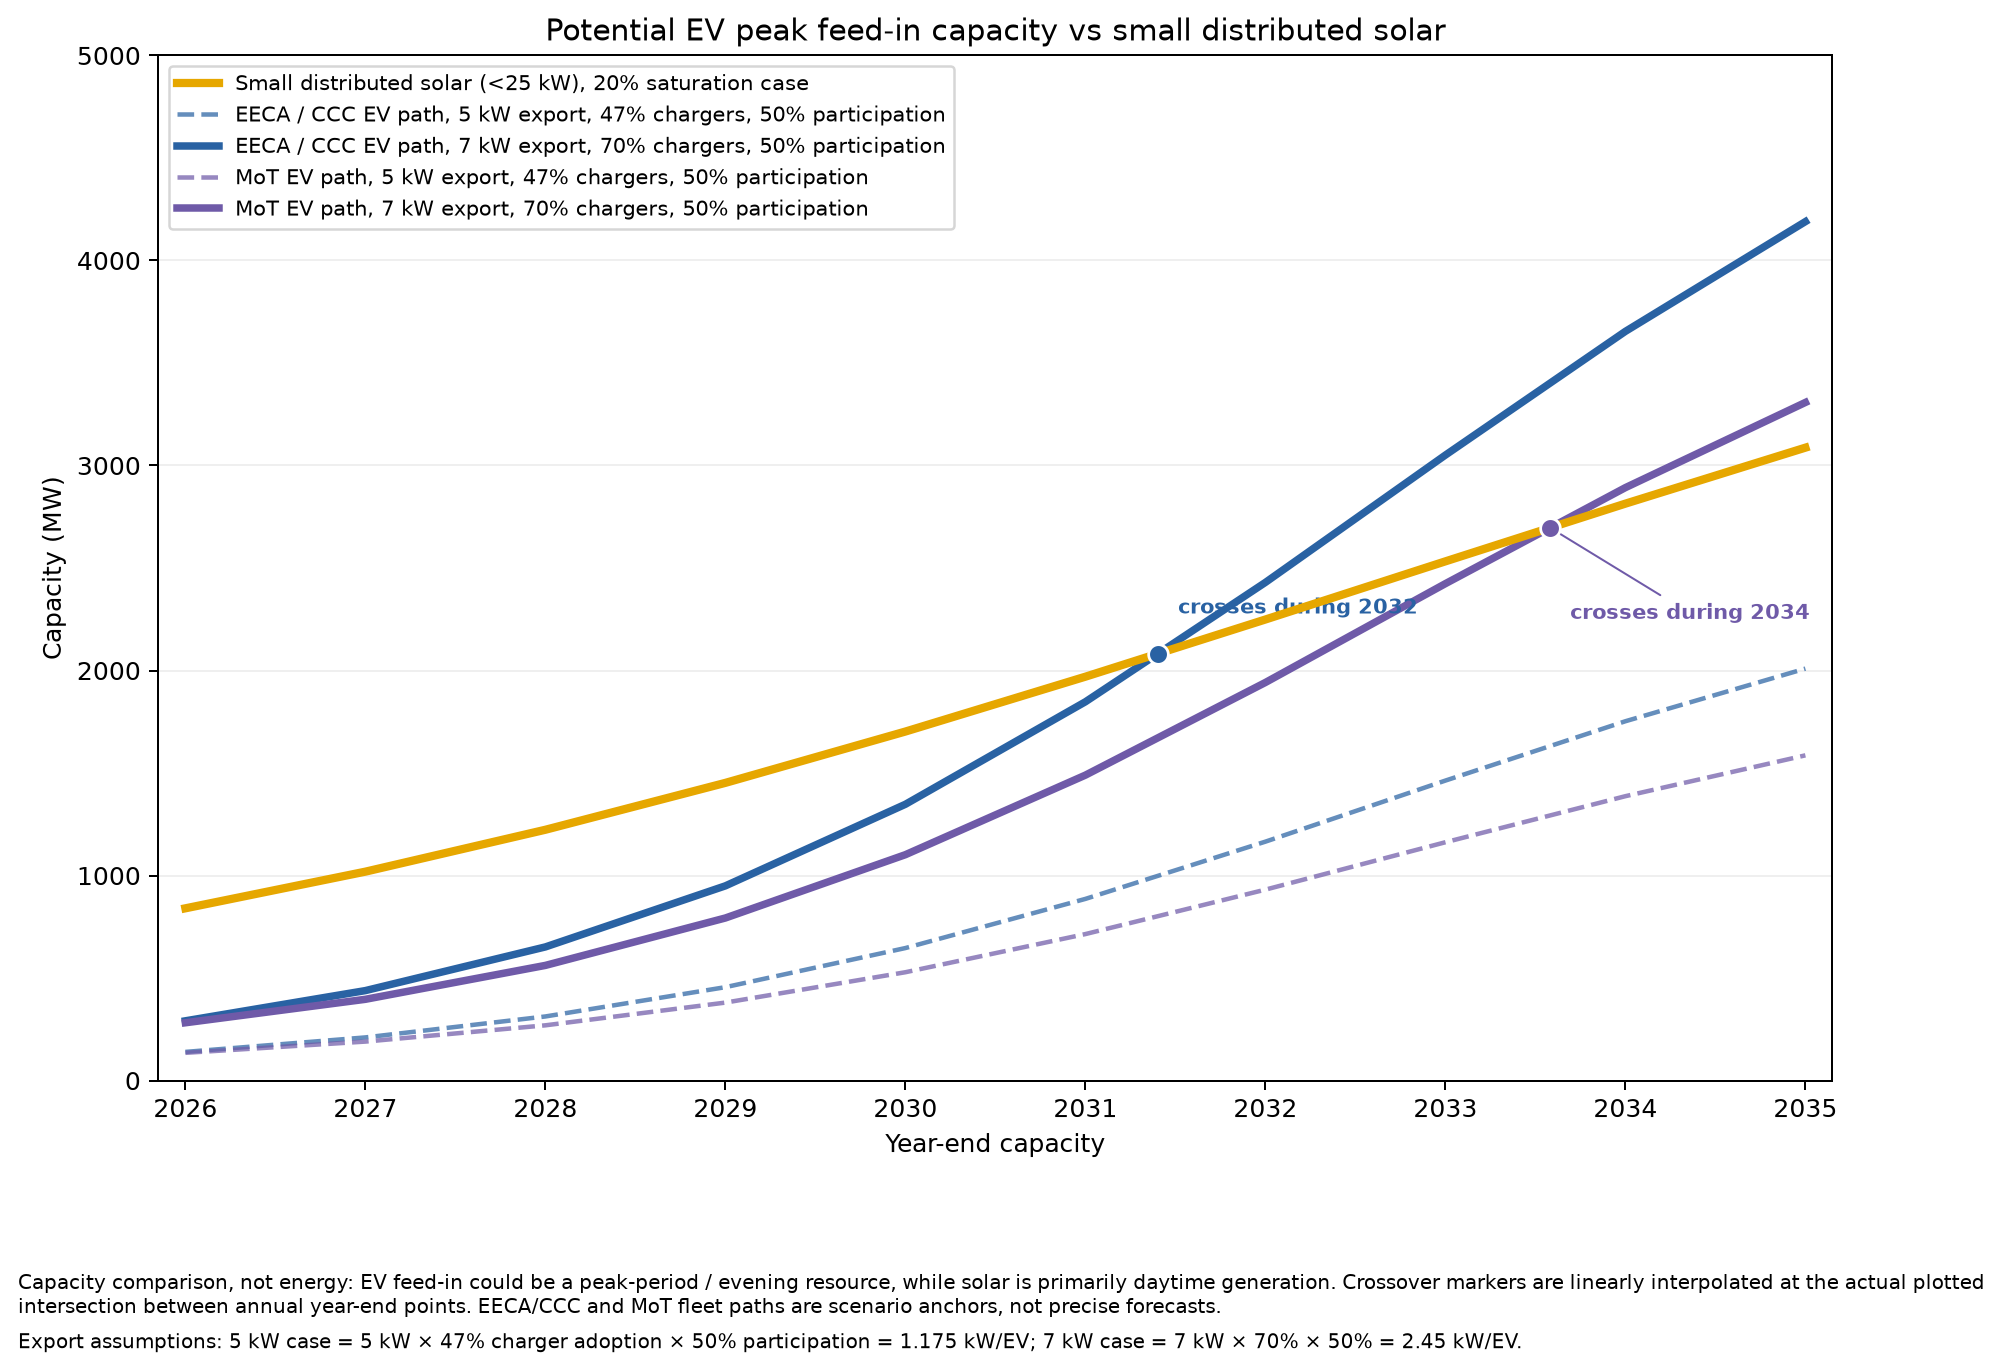
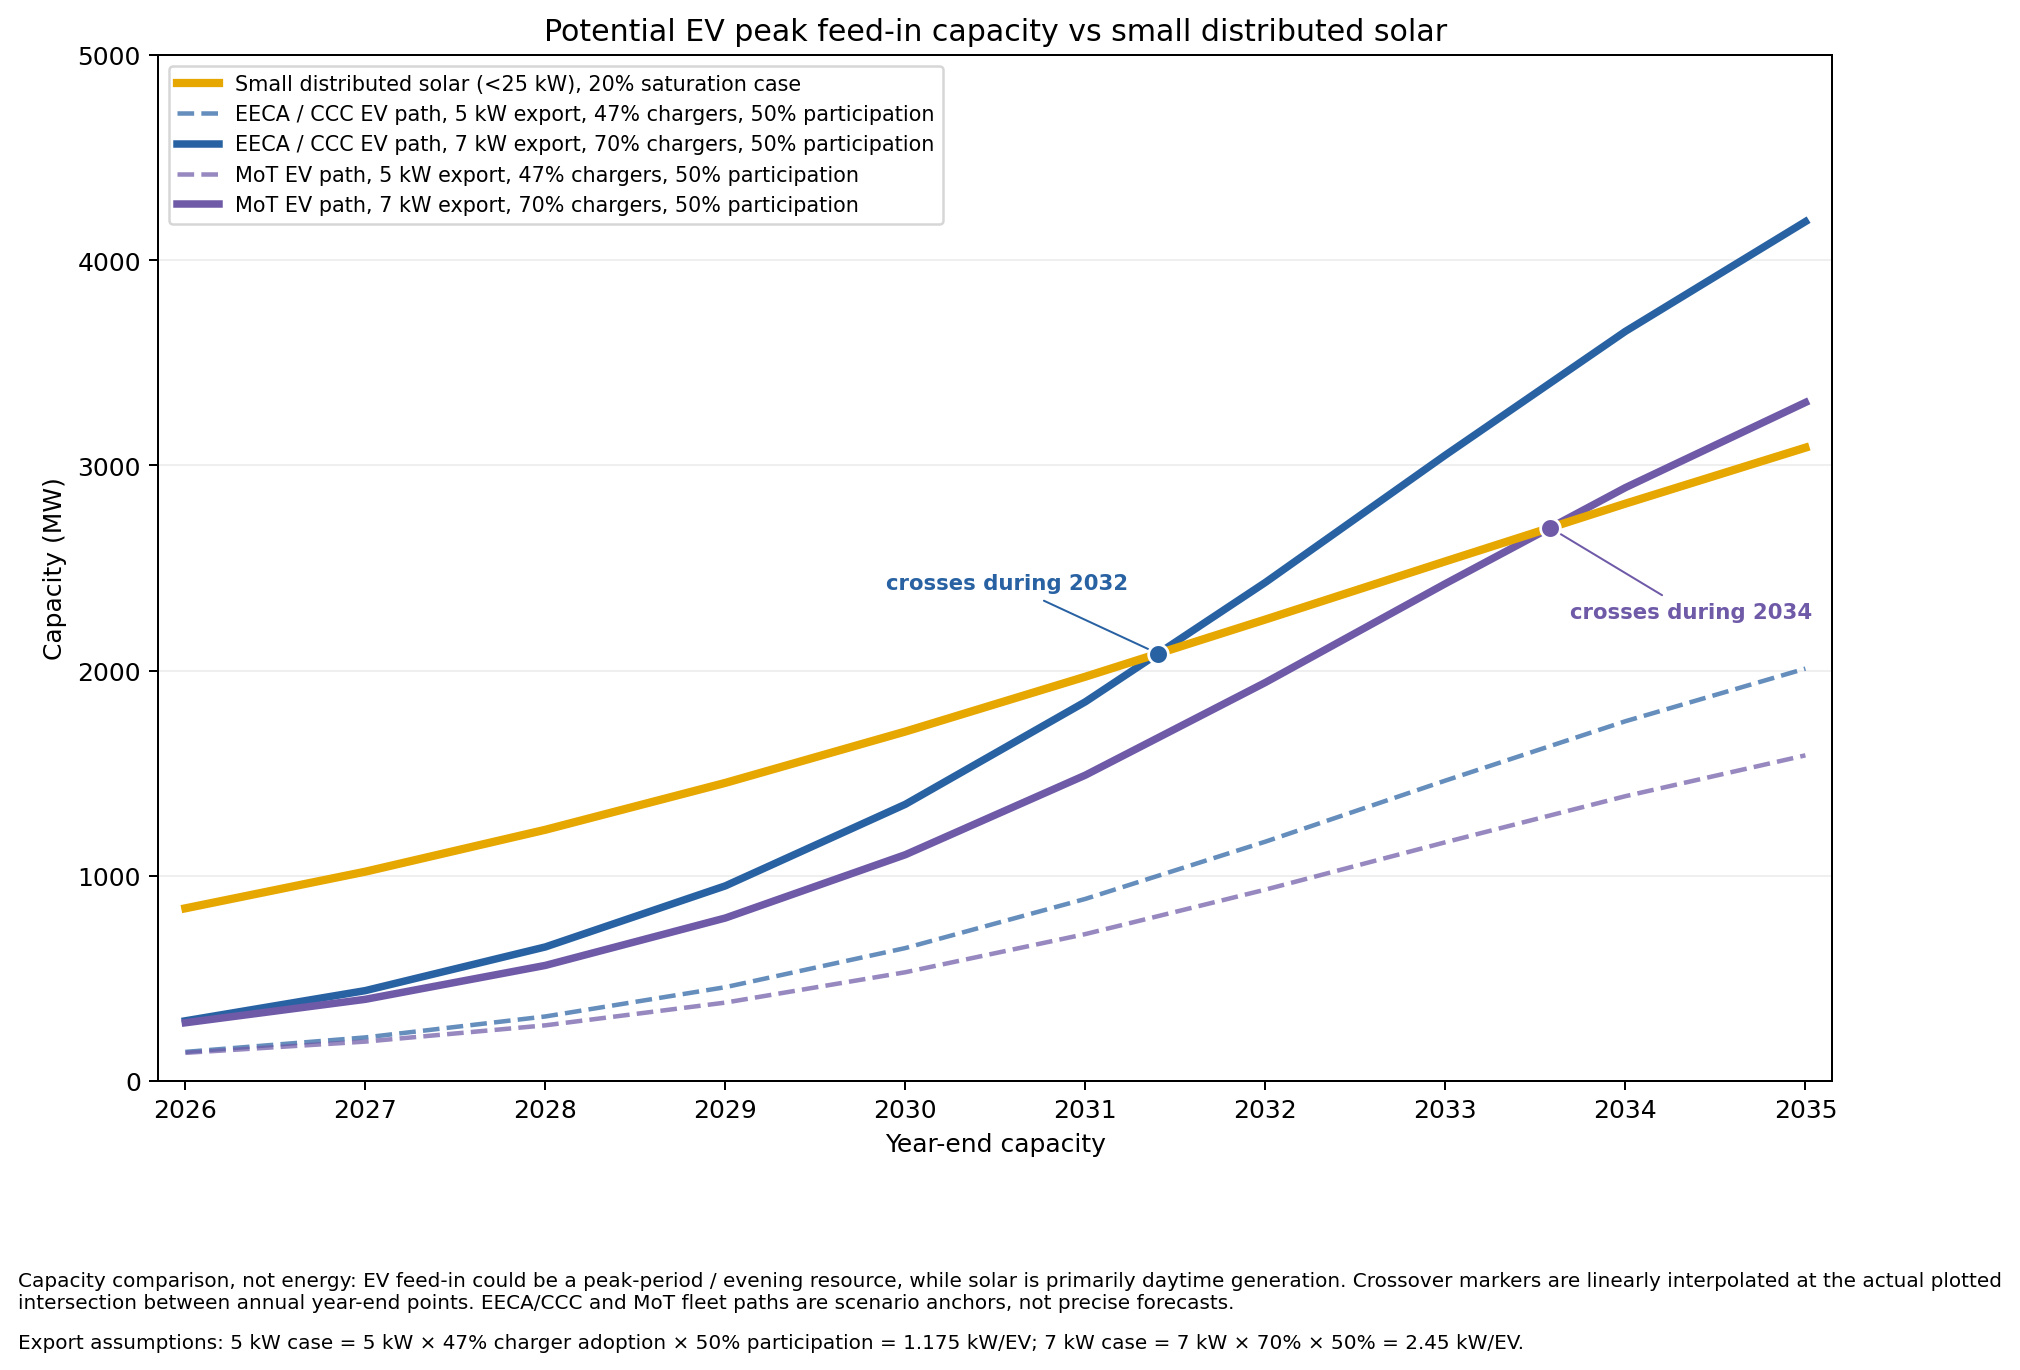
Keep EV solar crossover labels clear of plotted lines

diff --git a/build_ev_feed_in_vs_small_solar.py b/build_ev_feed_in_vs_small_solar.py
@@ -305,8 +305,8 @@ def main() -> None:
     )
 
     annotation_offsets = {
-        "eeca_current": (8, 14),
-        "eeca_future": (8, 14),
+        "eeca_current": (-12, 24),
+        "eeca_future": (-12, 24),
         "mot_current": (8, -30),
         "mot_future": (8, -30),
     }
@@ -334,7 +334,7 @@ def main() -> None:
             fontsize=8.5,
             fontweight="semibold",
             color=color,
-            ha="left",
+            ha="right" if dx < 0 else "left",
             va="bottom" if dy >= 0 else "top",
             arrowprops={
                 "arrowstyle": "-",
